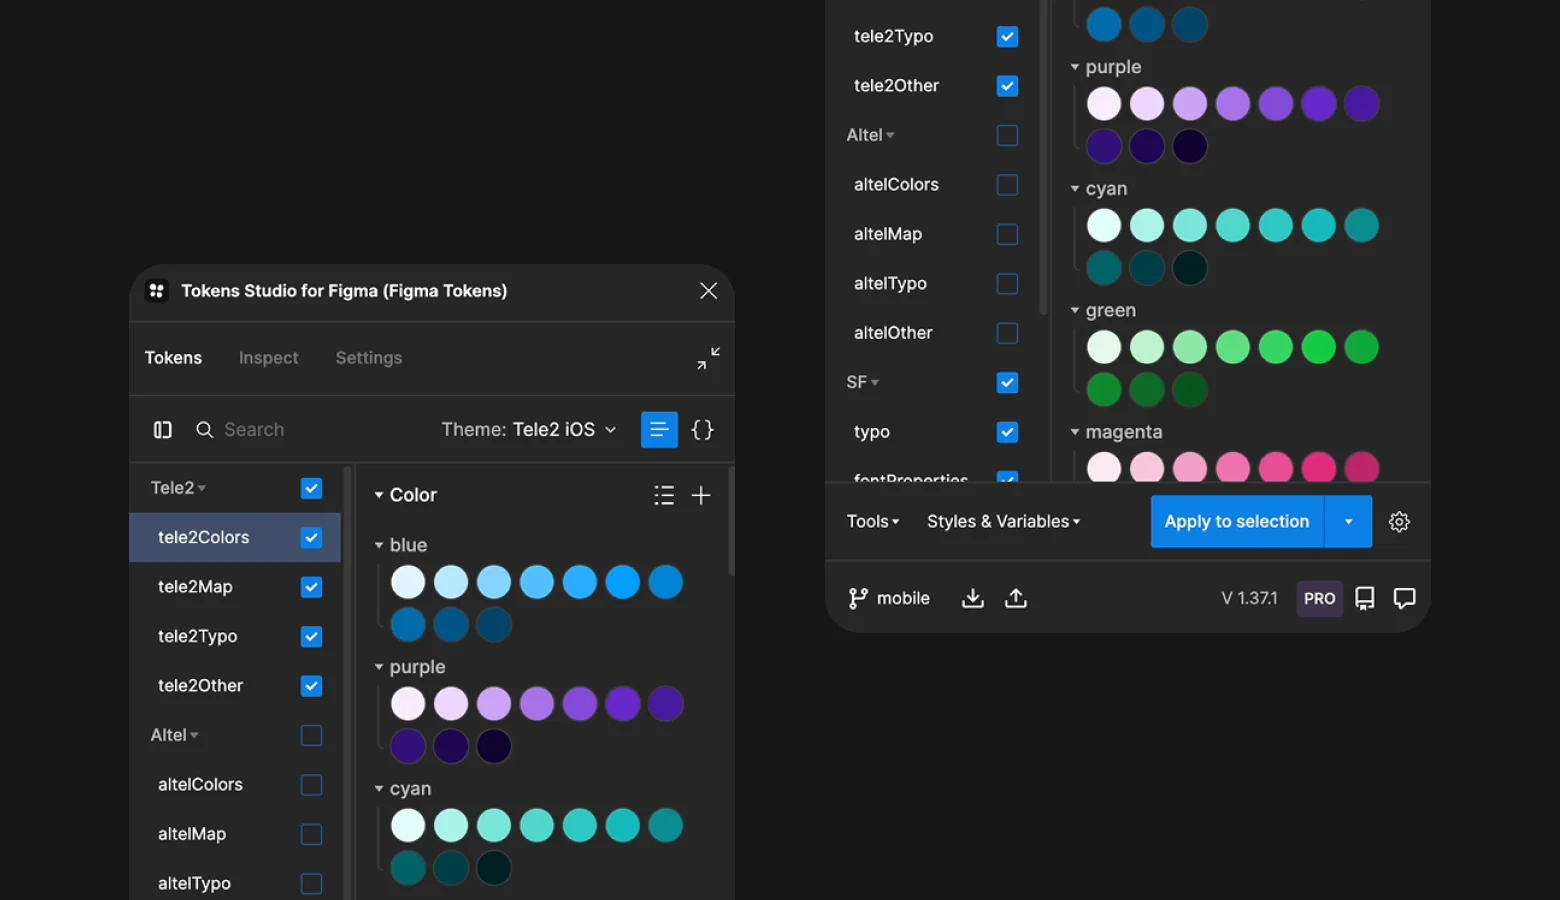
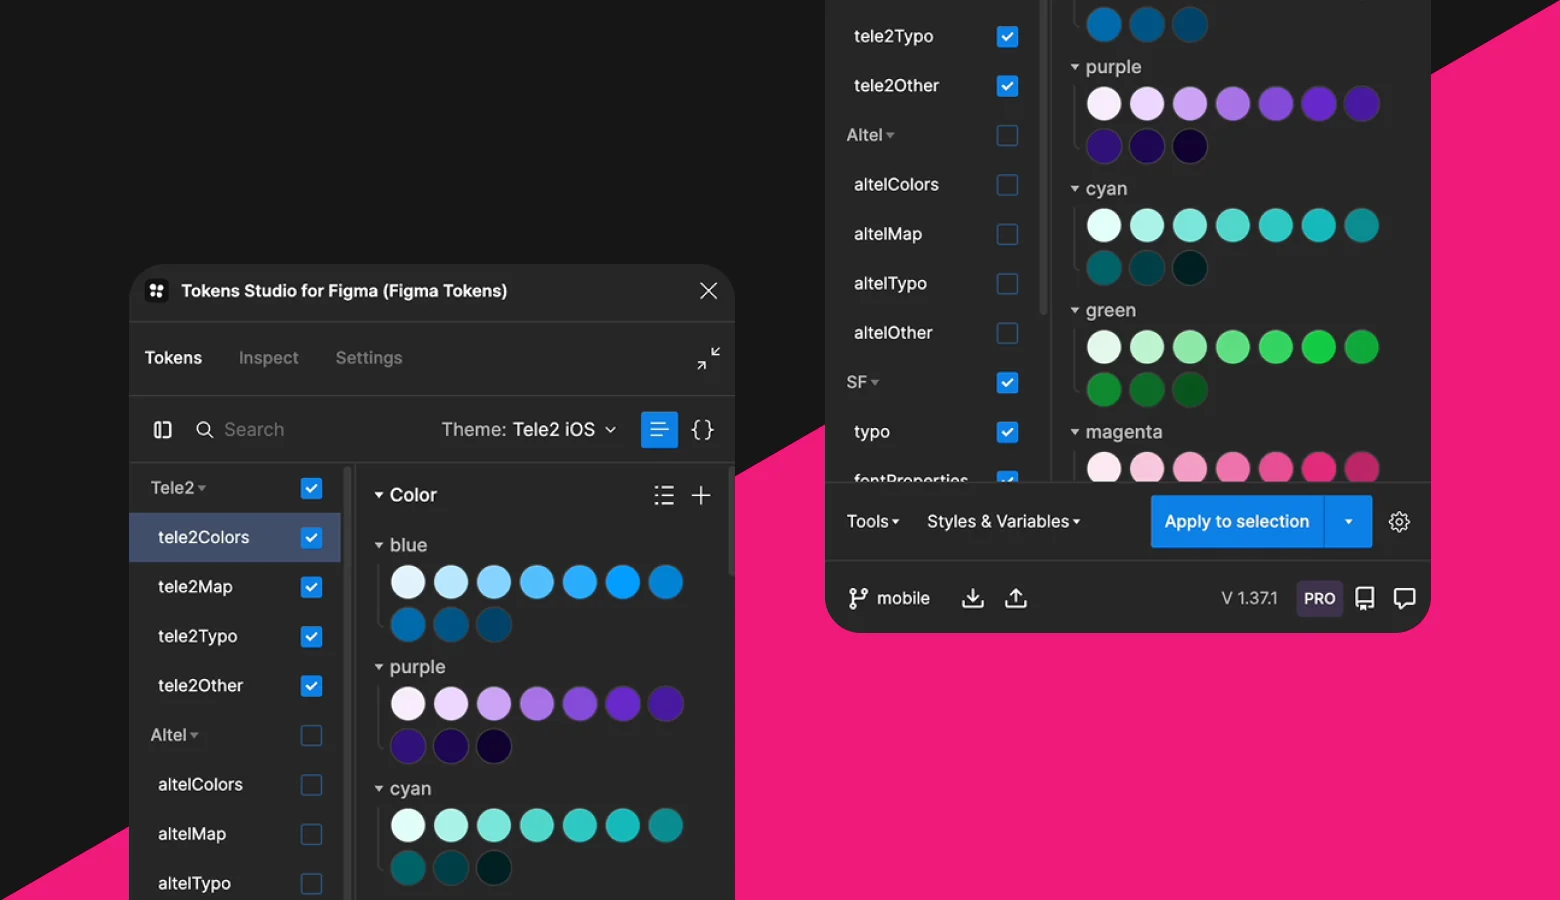
Новые обложки кейса дизайн-системы Tele2: розовый акцент

Changed region(s): [[0.4615, 0.0, 1.0, 1.0], [0.0, 0.9022, 0.0923, 1.0]]

diff --git a/index.html b/index.html
@@ -134,8 +134,8 @@
 
       <article class="case" data-reveal>
         <a draggable="false" class="case__cover" href="/tele2-ds" aria-label="Дизайн-система на токенах для Tele2 и Altel">
-          <img draggable="false" class="cover-light" src="images/case-tele2-ds-light.webp?v=1" alt="Токены Tele2 и Altel в Tokens Studio для Figma" loading="lazy">
-          <img draggable="false" class="cover-dark" src="images/case-tele2-ds-dark.webp?v=1" alt="Токены Tele2 и Altel в Tokens Studio для Figma" loading="lazy">
+          <img draggable="false" class="cover-light" src="images/case-tele2-ds-light.webp?v=2" alt="Токены Tele2 и Altel в Tokens Studio для Figma" loading="lazy">
+          <img draggable="false" class="cover-dark" src="images/case-tele2-ds-dark.webp?v=2" alt="Токены Tele2 и Altel в Tokens Studio для Figma" loading="lazy">
         </a>
         <h3 class="case__title">Дизайн-система на&nbsp;токенах для&nbsp;Tele2 и&nbsp;Altel</h3>
         <p class="case__text">Собрали одну библиотеку компонентов на&nbsp;дизайн-токенах, которая переключает интерфейс с&nbsp;одного бренда на&nbsp;другой в&nbsp;один клик — в&nbsp;дизайне и&nbsp;в&nbsp;коде.</p>

diff --git a/tele2-ds.html b/tele2-ds.html
@@ -92,8 +92,8 @@
       <p class="case-page__talk" data-reveal>Рассказывал об&nbsp;этом проекте на&nbsp;конференции UsabilityLab: <a href="https://www.youtube.com/watch?v=hidl-D2Wdzc" target="_blank" rel="noopener">смотреть доклад «Дизайн-токены: адаптация интерфейса под любой бренд»</a></p>
 
       <figure class="case-page__cover" data-reveal>
-        <img class="cover-light" src="images/case-tele2-ds-light.webp?v=1" alt="Токены Tele2 и Altel в Tokens Studio для Figma">
-        <img class="cover-dark" src="images/case-tele2-ds-dark.webp?v=1" alt="Токены Tele2 и Altel в Tokens Studio для Figma">
+        <img class="cover-light" src="images/case-tele2-ds-light.webp?v=2" alt="Токены Tele2 и Altel в Tokens Studio для Figma">
+        <img class="cover-dark" src="images/case-tele2-ds-dark.webp?v=2" alt="Токены Tele2 и Altel в Tokens Studio для Figma">
       </figure>
 
       <section class="case-page__section" data-reveal>
